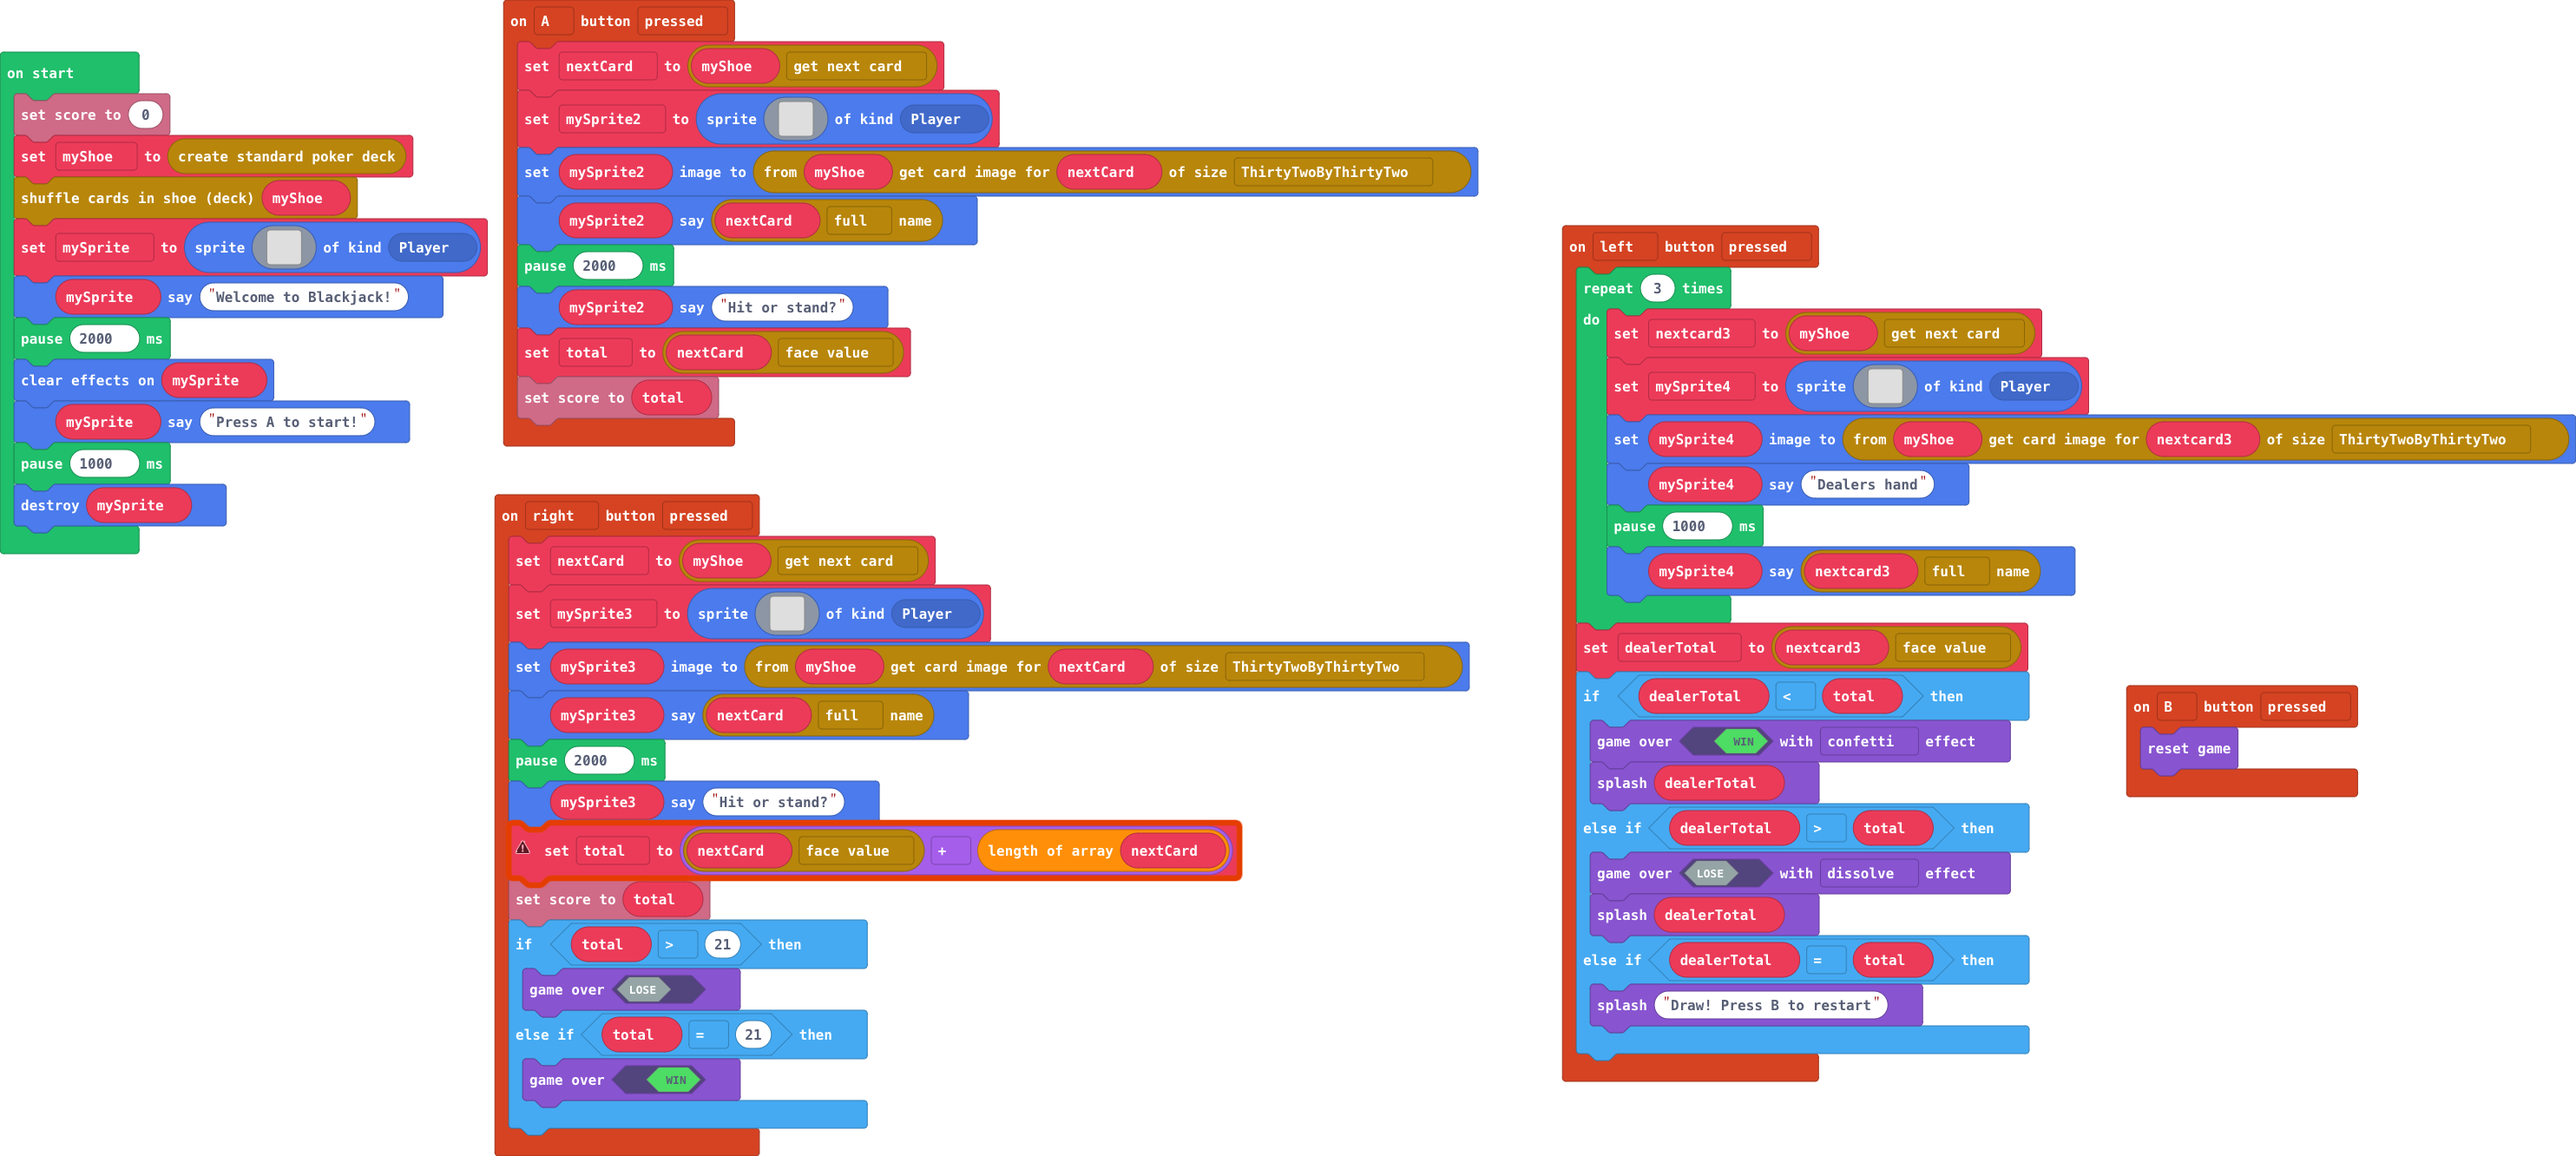
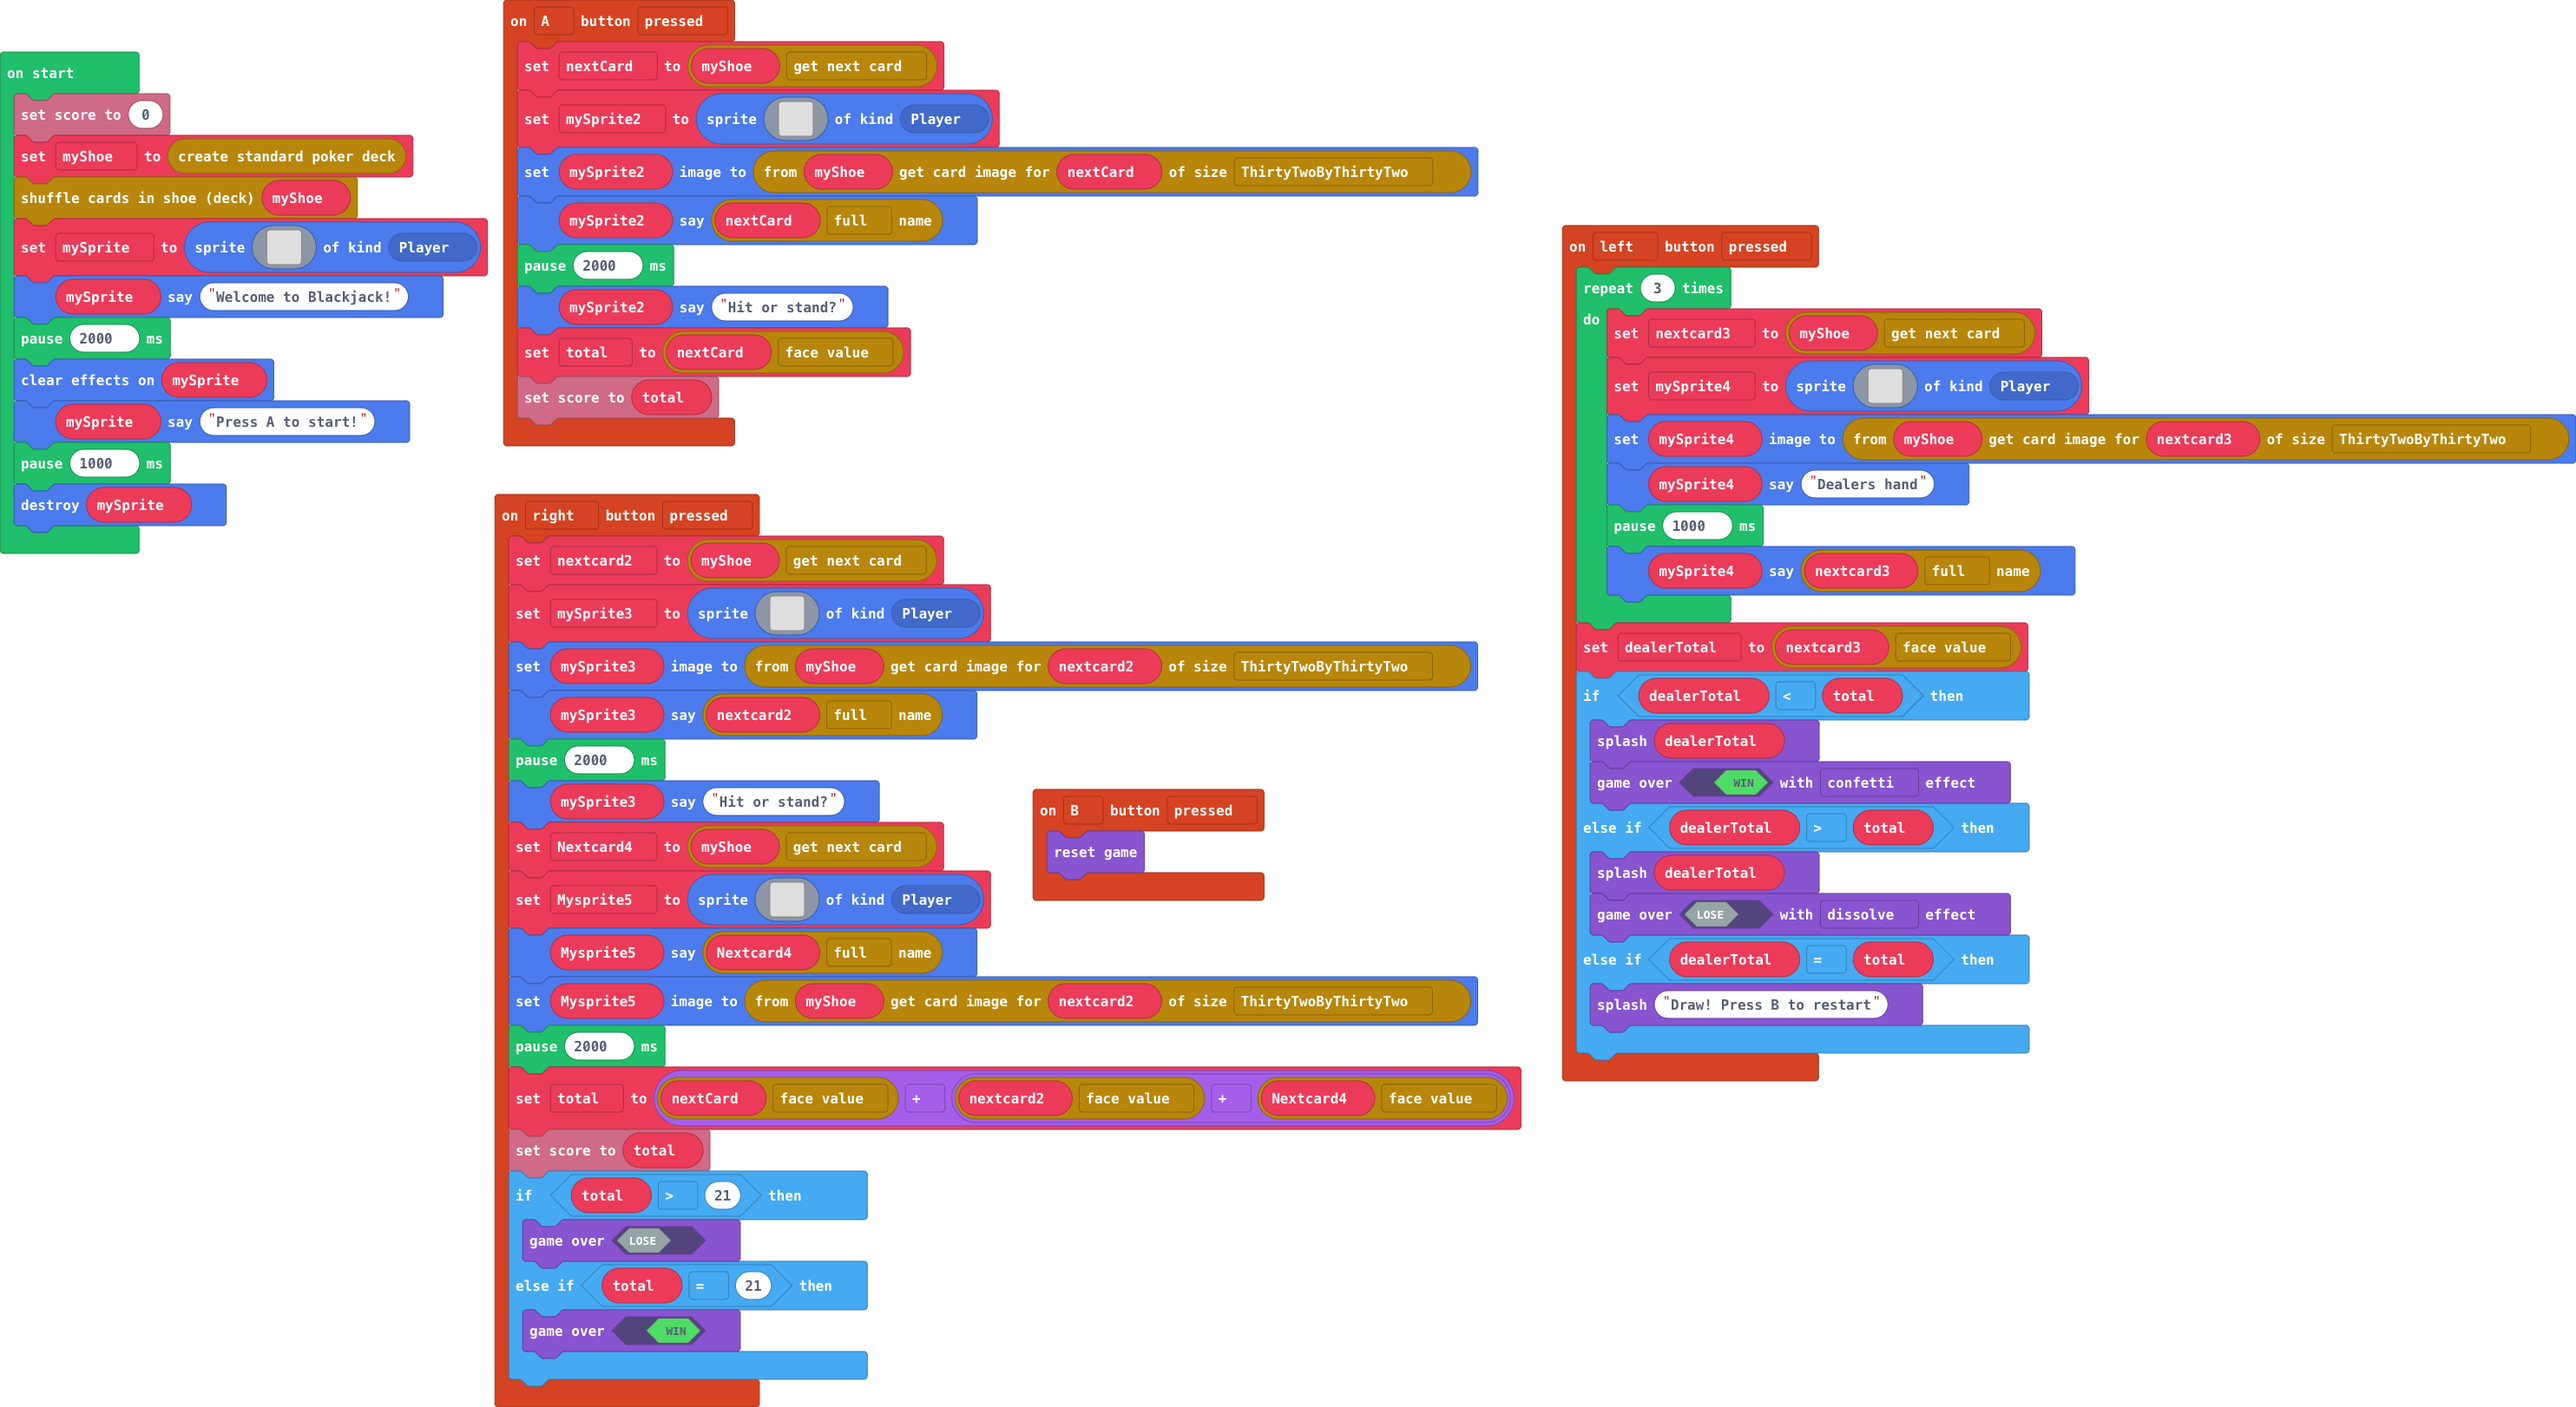
Update main.blocks, main.ts

diff --git a/main.ts b/main.ts
@@ -62,17 +62,17 @@ controller.left.onEvent(ControllerButtonEvent.Pressed, function () {
     }
     dealerTotal = nextcard3.faceValue
     if (dealerTotal < total) {
+        game.splash(dealerTotal)
         game.over(true, effects.confetti)
-        game.splash(dealerTotal)
     } else if (dealerTotal > total) {
-        game.over(false, effects.dissolve)
         game.splash(dealerTotal)
+        game.over(false, effects.dissolve)
     } else if (dealerTotal == total) {
         game.splash("Draw! Press B to restart")
     }
 })
 controller.right.onEvent(ControllerButtonEvent.Pressed, function () {
-    nextCard = myShoe.nextCard
+    nextcard2 = myShoe.nextCard
     mySprite3 = sprites.create(img`
         . . . . . . . . . . . . . . . . 
         . . . . . . . . . . . . . . . . 
@@ -91,11 +91,33 @@ controller.right.onEvent(ControllerButtonEvent.Pressed, function () {
         . . . . . . . . . . . . . . . . 
         . . . . . . . . . . . . . . . . 
         `, SpriteKind.Player)
-    mySprite3.setImage(myShoe.getCardImage(nextCard, CardSpriteSize.ThirtyTwoByThirtyTwo))
-    mySprite3.say(nextCard.name)
+    mySprite3.setImage(myShoe.getCardImage(nextcard2, CardSpriteSize.ThirtyTwoByThirtyTwo))
+    mySprite3.say(nextcard2.name)
     pause(2000)
     mySprite3.sayText("Hit or stand?")
-    total = nextCard.faceValue + nextCard.length
+    Nextcard4 = myShoe.nextCard
+    Mysprite5 = sprites.create(img`
+        . . . . . . . . . . . . . . . . 
+        . . . . . . . . . . . . . . . . 
+        . . . . . . . . . . . . . . . . 
+        . . . . . . . . . . . . . . . . 
+        . . . . . . . . . . . . . . . . 
+        . . . . . . . . . . . . . . . . 
+        . . . . . . . . . . . . . . . . 
+        . . . . . . . . . . . . . . . . 
+        . . . . . . . . . . . . . . . . 
+        . . . . . . . . . . . . . . . . 
+        . . . . . . . . . . . . . . . . 
+        . . . . . . . . . . . . . . . . 
+        . . . . . . . . . . . . . . . . 
+        . . . . . . . . . . . . . . . . 
+        . . . . . . . . . . . . . . . . 
+        . . . . . . . . . . . . . . . . 
+        `, SpriteKind.Player)
+    Mysprite5.say(Nextcard4.name)
+    Mysprite5.setImage(myShoe.getCardImage(nextcard2, CardSpriteSize.ThirtyTwoByThirtyTwo))
+    pause(2000)
+    total = nextCard.faceValue + (nextcard2.faceValue + Nextcard4.faceValue)
     info.setScore(total)
     if (total > 21) {
         game.over(false)
@@ -103,7 +125,10 @@ controller.right.onEvent(ControllerButtonEvent.Pressed, function () {
         game.over(true)
     }
 })
+let Mysprite5: Sprite = null
+let Nextcard4: Card = null
 let mySprite3: Sprite = null
+let nextcard2: Card = null
 let dealerTotal = 0
 let mySprite4: Sprite = null
 let nextcard3: Card = null
